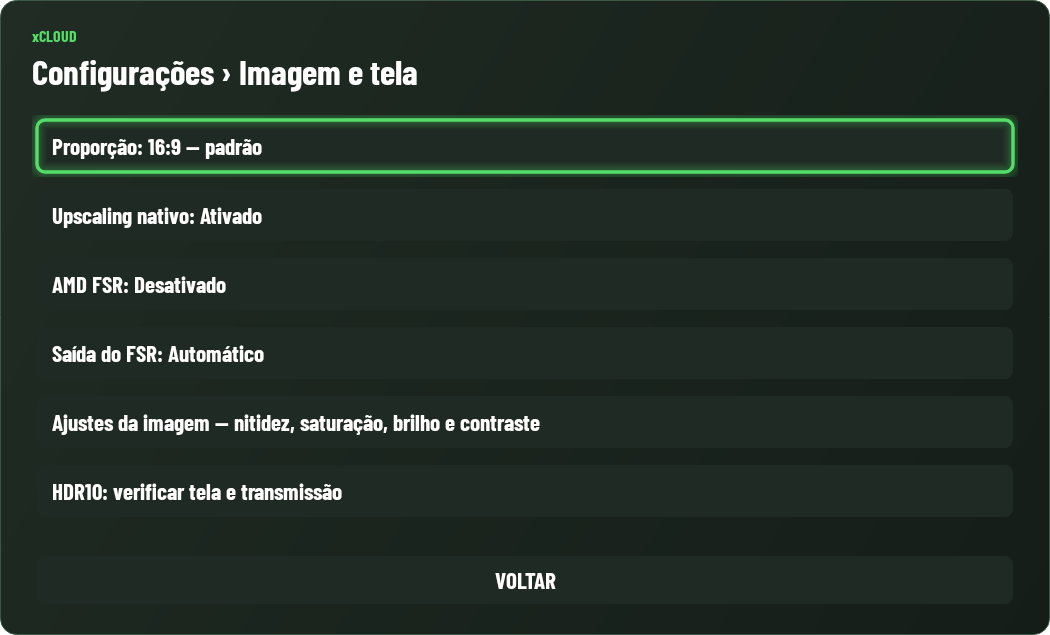
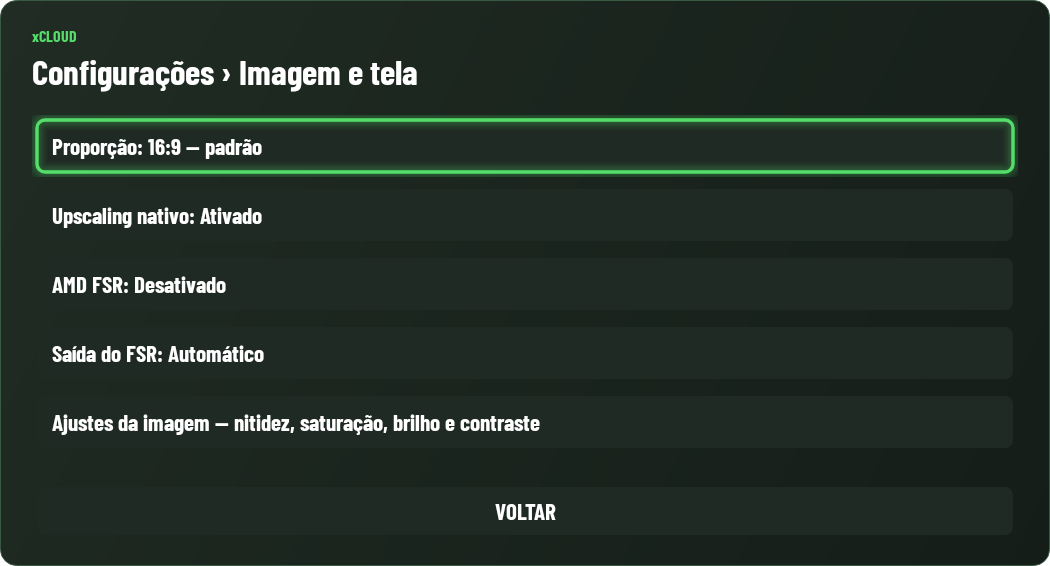
release: preparar xCLOUD 0.32.0 com selos menores e capturas reais

diff --git a/app/src/main/java/com/xcloud/tclnative/ui/dashboard/PlaybackSettingsPanel.kt b/app/src/main/java/com/xcloud/tclnative/ui/dashboard/PlaybackSettingsPanel.kt
@@ -94,8 +94,7 @@ class PlaybackSettingsPanel(
             ConsoleAction(UiText.text("Upscaling nativo: {0}",UiText.nested(if(value.nativeUpscaling) UiText.text("Ativado") else UiText.text("Desativado")))) { chooseUpscaling() },
             ConsoleAction(UiText.text("AMD FSR: {0}",UiText.nested(if(value.videoMode==VideoMode.COMPATIBILITY) UiText.text("Desativado (Compatibilidade)") else value.fsr.label))) { chooseFsr() },
             ConsoleAction(UiText.text("Saída do FSR: {0}",UiText.nested(value.fsrOutput.label))) { chooseFsrOutput() },
-            ConsoleAction(UiText.text("Ajustes da imagem — nitidez, saturação, brilho e contraste")) { showImageAdjustments() },
-            ConsoleAction(UiText.text("HDR10: verificar tela e transmissão")) { showHdrStatus() }
+            ConsoleAction(UiText.text("Ajustes da imagem — nitidez, saturação, brilho e contraste")) { showImageAdjustments() }
         ))
     }
     fun showNetwork(): ConsoleDialog = category(SettingsPage.NETWORK,UiText.text("Rede e sessão"),listOf(
@@ -118,8 +117,6 @@ class PlaybackSettingsPanel(
         ConsoleAction(UiText.text("Atalhos dos favoritos"),homeShortcuts),ConsoleAction(UiText.text("Gerenciar assinatura Microsoft"),subscription),
         ConsoleAction(UiText.text("Atualizar catálogo"),refresh),ConsoleAction(UiText.text("Trocar conta"),logout)
     ))
-    fun showHdrStatus(): ConsoleDialog = ConsoleDialogs.message(context,UiText.text("HDR10: tela e transmissão"),
-        com.xcloud.tclnative.renderer.HdrStatus.report(context),listOf(ConsoleAction(UiText.text("Voltar")) { showImage() }),onCancel={ showImage() })
     private fun save(settings: PlaybackSettings, after: () -> Unit = { open(currentPage) }) { store.save(settings); changed(settings); after() }
     private fun choices(title: String, description: String, entries: List<Pair<String,Boolean>>,
                         onBack: () -> Unit = { open(currentPage) }, select: (Int) -> Unit): ConsoleDialog {

diff --git a/app/src/main/java/com/xcloud/tclnative/ui/dashboard/GameBadgesView.kt b/app/src/main/java/com/xcloud/tclnative/ui/dashboard/GameBadgesView.kt
@@ -34,7 +34,7 @@ internal class GameBadgesView(context: Context) : FrameLayout(context) {
         visibility=if(gamePass || optimized) View.VISIBLE else View.GONE
         pass.visibility=if(gamePass) View.VISIBLE else View.GONE
         series.visibility=if(optimized) View.VISIBLE else View.GONE
-        val offset=((if(gamePass) 53 else 8)*scale).roundToInt()
+        val offset=((if(gamePass) 49 else 8)*scale).roundToInt()
         (series.layoutParams as? LayoutParams)?.let { params ->
             if(geometryScale==scale && params.leftMargin!=offset) {
                 params.leftMargin=offset;series.layoutParams=params
@@ -45,9 +45,9 @@ internal class GameBadgesView(context: Context) : FrameLayout(context) {
         val padding=(2*scale).roundToInt()
         pass.setPadding(padding,padding,padding,padding)
         series.setPadding(padding,padding,padding,padding)
-        pass.layoutParams=LayoutParams((40*scale).roundToInt(),(28*scale).roundToInt(),Gravity.BOTTOM or Gravity.START)
+        pass.layoutParams=LayoutParams((36*scale).roundToInt(),(25*scale).roundToInt(),Gravity.BOTTOM or Gravity.START)
             .apply { leftMargin=(8*scale).roundToInt();bottomMargin=(8*scale).roundToInt() }
-        series.layoutParams=LayoutParams((60*scale).roundToInt(),(28*scale).roundToInt(),Gravity.BOTTOM or Gravity.START)
+        series.layoutParams=LayoutParams((54*scale).roundToInt(),(25*scale).roundToInt(),Gravity.BOTTOM or Gravity.START)
             .apply { leftMargin=offset;bottomMargin=(8*scale).roundToInt() }
     }
 }

diff --git a/app/src/test/java/com/xcloud/tclnative/ConsoleUiTest.kt b/app/src/test/java/com/xcloud/tclnative/ConsoleUiTest.kt
@@ -121,7 +121,9 @@ class ConsoleUiTest {
         choose(resolution,"720p")
         assertEquals(StreamResolution.HD_720,store.read().resolution)
         (ShadowDialog.getLatestDialog() as ConsoleDialog).dismiss()
-        choose(panel.showImage(),"Upscaling nativo:")
+        val imageCategory=panel.showImage()
+        render(imageCategory,"image-settings-0.32.0")
+        choose(imageCategory,"Upscaling nativo:")
         val upscale=ShadowDialog.getLatestDialog() as ConsoleDialog
         render(upscale,"green-upscaling-choice")
         choose(upscale,"Desativado —")

diff --git a/scripts/release_notes.py b/scripts/release_notes.py
@@ -1,0 +1,67 @@
+#!/usr/bin/env python3
+"""Prepare public app features from the README for an APK Release."""
+import argparse
+from pathlib import Path
+import re
+
+ROOT = Path(__file__).resolve().parents[1]
+FEATURE_SECTIONS = (
+    "Conta e biblioteca",
+    "Aparência e temas",
+    "Idiomas do aplicativo",
+    "Transmissão e fila",
+    "Imagem e tela",
+    "Controles e periféricos",
+    "Touch nativo",
+    "Controles de toque",
+    "Áudio e microfone",
+    "Rede e preferências",
+    "Estatísticas e diagnósticos",
+    "Tela inicial da TV",
+    "Compatibilidade",
+)
+
+
+def release_notes(readme, version):
+    if not re.fullmatch(r"\d+\.\d+\.\d+", version):
+        raise ValueError("Use uma versão no formato 0.32.0.")
+    sections = {name: [] for name in FEATURE_SECTIONS}
+    current = None
+    for line in readme.splitlines():
+        if line.startswith("## "):
+            current = sections.get(line[3:].strip())
+        elif current is not None and line.startswith(("- ", "|")):
+            current.append(line)
+    if any(not lines for lines in sections.values()):
+        raise ValueError("O README precisa descrever todas as categorias do aplicativo.")
+    parts = [
+        "Cliente independente de Xbox Cloud Gaming para Android, Android TV e Google TV.",
+        f"**Instalação ou atualização:** baixe **xCLOUD-{version}.apk** nos arquivos desta Release. "
+        "Requer Android 7.0 ou superior.",
+        "A disponibilidade dos jogos e dos recursos de transmissão depende da conta, "
+        "da região, da assinatura ou licença, do aparelho e do serviço Xbox.",
+    ]
+    for name, lines in sections.items():
+        block = [f"### {name}", ""]
+        for index, line in enumerate(lines):
+            if index and line.startswith("|") != lines[index - 1].startswith("|"):
+                block.append("")
+            block.append(line)
+        parts.append("\n".join(block))
+    parts.append("Código original sob licença MIT. Bibliotecas e componentes de terceiros "
+                 "mantêm suas próprias licenças. Cliente independente, sem afiliação com "
+                 "Microsoft ou Xbox; nomes, marcas e artes dos jogos pertencem aos seus titulares.")
+    return "\n\n".join(parts) + "\n"
+
+
+def main():
+    parser = argparse.ArgumentParser(description=__doc__)
+    parser.add_argument("--version", required=True)
+    parser.add_argument("--readme", type=Path, default=ROOT / "README.md")
+    parser.add_argument("--output", type=Path, required=True)
+    args = parser.parse_args()
+    args.output.write_text(release_notes(args.readme.read_text(), args.version))
+
+
+if __name__ == "__main__":
+    main()

diff --git a/README.md b/README.md
@@ -10,7 +10,7 @@
 
 ## Telas do aplicativo
 
-A galeria reúne capturas reais de uso e telas de demonstração do app. O QR Code é ilustrativo; algumas prévias dos HUDs usam fundo neutro.
+A galeria reúne capturas reais de uso e telas de demonstração do app. O QR Code é ilustrativo.
 
 <table>
   <tr>
@@ -52,16 +52,16 @@ A galeria reúne capturas reais de uso e telas de demonstração do app. O QR Co
 
 <table>
   <tr>
-    <td width="50%"><img src="docs/screenshots/theme-cyber-blue.png" alt="Tema Azul Cibernético, com fundo azul escuro e destaques ciano." /><br /><strong>Azul Cibernético</strong></td>
-    <td width="50%"><img src="docs/screenshots/theme-volcanic-red.png" alt="Tema Vermelho Vulcânico, com fundo vermelho escuro e destaques vermelhos." /><br /><strong>Vermelho Vulcânico</strong></td>
+    <td width="50%"><img src="docs/screenshots/theme-cyber-blue.jpg" alt="Tema Azul Cibernético, com fundo azul escuro e destaques ciano." /><br /><strong>Azul Cibernético</strong></td>
+    <td width="50%"><img src="docs/screenshots/theme-volcanic-red.jpg" alt="Tema Vermelho Vulcânico, com fundo vermelho escuro e destaques vermelhos." /><br /><strong>Vermelho Vulcânico</strong></td>
   </tr>
   <tr>
-    <td width="50%"><img src="docs/screenshots/theme-prestige-gold.png" alt="Tema Dourado Prestígio, com fundo escuro e destaques dourados." /><br /><strong>Dourado Prestígio</strong></td>
-    <td width="50%"><img src="docs/screenshots/theme-industrial-orange.png" alt="Tema Laranja Industrial, com fundo grafite e destaques laranja." /><br /><strong>Laranja Industrial</strong></td>
+    <td width="50%"><img src="docs/screenshots/theme-prestige-gold.jpg" alt="Tema Dourado Prestígio, com fundo escuro e destaques dourados." /><br /><strong>Dourado Prestígio</strong></td>
+    <td width="50%"><img src="docs/screenshots/theme-industrial-orange.jpg" alt="Tema Laranja Industrial, com fundo grafite e destaques laranja." /><br /><strong>Laranja Industrial</strong></td>
   </tr>
   <tr>
-    <td width="50%"><img src="docs/screenshots/theme-galaxy-purple.png" alt="Tema Roxo Galáxia, com fundo roxo escuro e destaques violeta." /><br /><strong>Roxo Galáxia</strong></td>
-    <td width="50%"><img src="docs/screenshots/theme-platinum-silver.png" alt="Tema Prata Platina, com fundo cinza escuro e destaques prateados." /><br /><strong>Prata Platina</strong></td>
+    <td width="50%"><img src="docs/screenshots/theme-galaxy-purple.jpg" alt="Tema Roxo Galáxia, com fundo roxo escuro e destaques violeta." /><br /><strong>Roxo Galáxia</strong></td>
+    <td width="50%"><img src="docs/screenshots/theme-platinum-silver.jpg" alt="Tema Prata Platina, com fundo cinza escuro e destaques prateados." /><br /><strong>Prata Platina</strong></td>
   </tr>
 </table>
 
@@ -129,7 +129,6 @@ A galeria reúne capturas reais de uso e telas de demonstração do app. O QR Co
 - **AMD FSR 1.0.2 experimental**, com ampliação EASU e nitidez RCAS; em resolução nativa, aplica somente RCAS.
 - Saída do FSR em **Automático, 1440p ou 4K experimental**, com proteção para retorno à escala padrão.
 - Preferência por uma taxa de atualização compatível com a apresentação do vídeo.
-- Verificação do suporte HDR anunciado pela tela; a transmissão atual utiliza SDR.
 
 <table>
   <tr>
@@ -196,14 +195,17 @@ O suporte depende do jogo e da sessão. Ter um layout de controle virtual na nuv
 <table>
   <tr>
     <td width="50%"><img src="docs/screenshots/hud-call-of-duty-gameplay.jpg" alt="Call of Duty durante uma partida com o HUD virtual do aplicativo." /><br /><strong>Call of Duty</strong> — Gameplay com analógico virtual, mira, disparo e ações na tela.</td>
-    <td width="50%"><img src="docs/screenshots/hud-forza.png" alt="Corrida — Direção, acelerador, freio e marchas." /><br /><strong>Corrida</strong> — Direção, acelerador, freio e marchas.</td>
+    <td width="50%"><img src="docs/screenshots/hud-forza-gameplay.jpg" alt="Corrida — Direção, acelerador, freio e marchas." /><br /><strong>Corrida</strong> — Direção, acelerador, freio e marchas.</td>
   </tr>
   <tr>
-    <td width="50%"><img src="docs/screenshots/hud-ea-fc.png" alt="Futebol em ataque — Passes, chute, enfiada e corrida." /><br /><strong>Futebol em ataque</strong> — Passes, chute, enfiada e corrida.</td>
-    <td width="50%"><img src="docs/screenshots/hud-ea-fc-defense.png" alt="Futebol em defesa — Marcação, bote, carrinho e troca de jogador." /><br /><strong>Futebol em defesa</strong> — Marcação, bote, carrinho e troca de jogador.</td>
+    <td colspan="2" align="center"><img src="docs/screenshots/hud-battlefield-6-gameplay.jpg" width="70%" alt="Battlefield 6 durante uma partida com o HUD de tiro do aplicativo." /><br /><strong>Battlefield 6</strong> — Gameplay com movimento, mira, disparo e ações do HUD de tiro.</td>
   </tr>
   <tr>
-    <td width="50%"><img src="docs/screenshots/hud-hades.png" alt="Hades — Ataque, especial, feitiço e esquiva." /><br /><strong>Hades</strong> — Ataque, especial, feitiço e esquiva.</td>
+    <td width="50%"><img src="docs/screenshots/hud-ea-fc-attack-gameplay.jpg" alt="Futebol em ataque — Passes, chute, enfiada e corrida." /><br /><strong>Futebol em ataque</strong> — Passes, chute, enfiada e corrida.</td>
+    <td width="50%"><img src="docs/screenshots/hud-ea-fc-defense-gameplay.jpg" alt="Futebol em defesa — Marcação, bote, carrinho e troca de jogador." /><br /><strong>Futebol em defesa</strong> — Marcação, bote, carrinho e troca de jogador.</td>
+  </tr>
+  <tr>
+    <td width="50%"><img src="docs/screenshots/hud-hades-gameplay.jpg" alt="Hades II durante uma partida com ataque, especial, feitiço e esquiva no HUD." /><br /><strong>Hades II</strong> — Ataque, especial, feitiço e esquiva.</td>
     <td width="50%"><img src="docs/screenshots/hud-editor.png" alt="Editor — Posição, tamanho, comandos combinados e gestos." /><br /><strong>Editor</strong> — Posição, tamanho, comandos combinados e gestos.</td>
   </tr>
   <tr>
